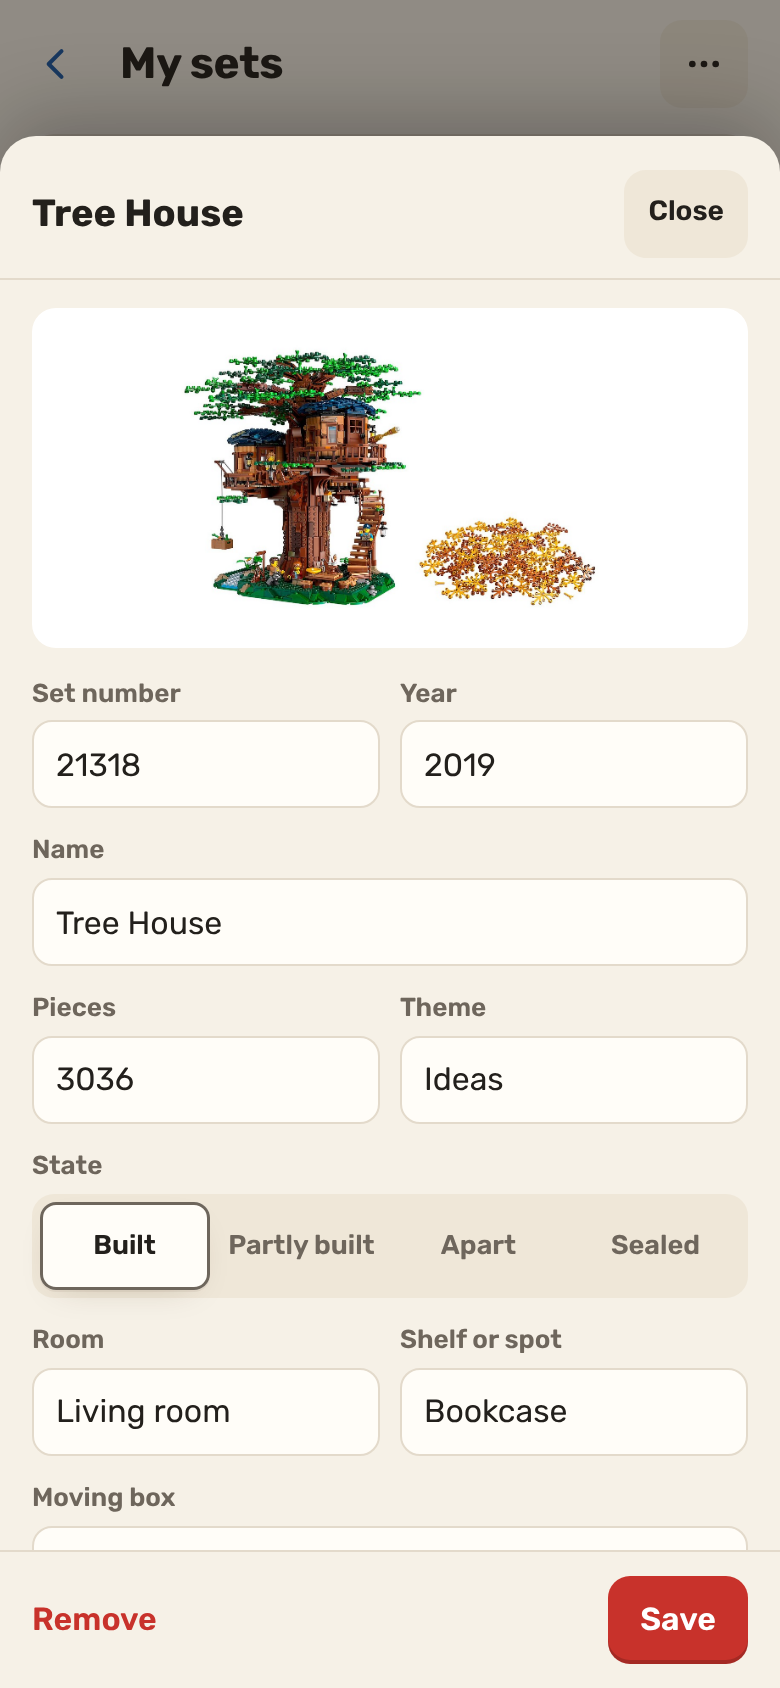
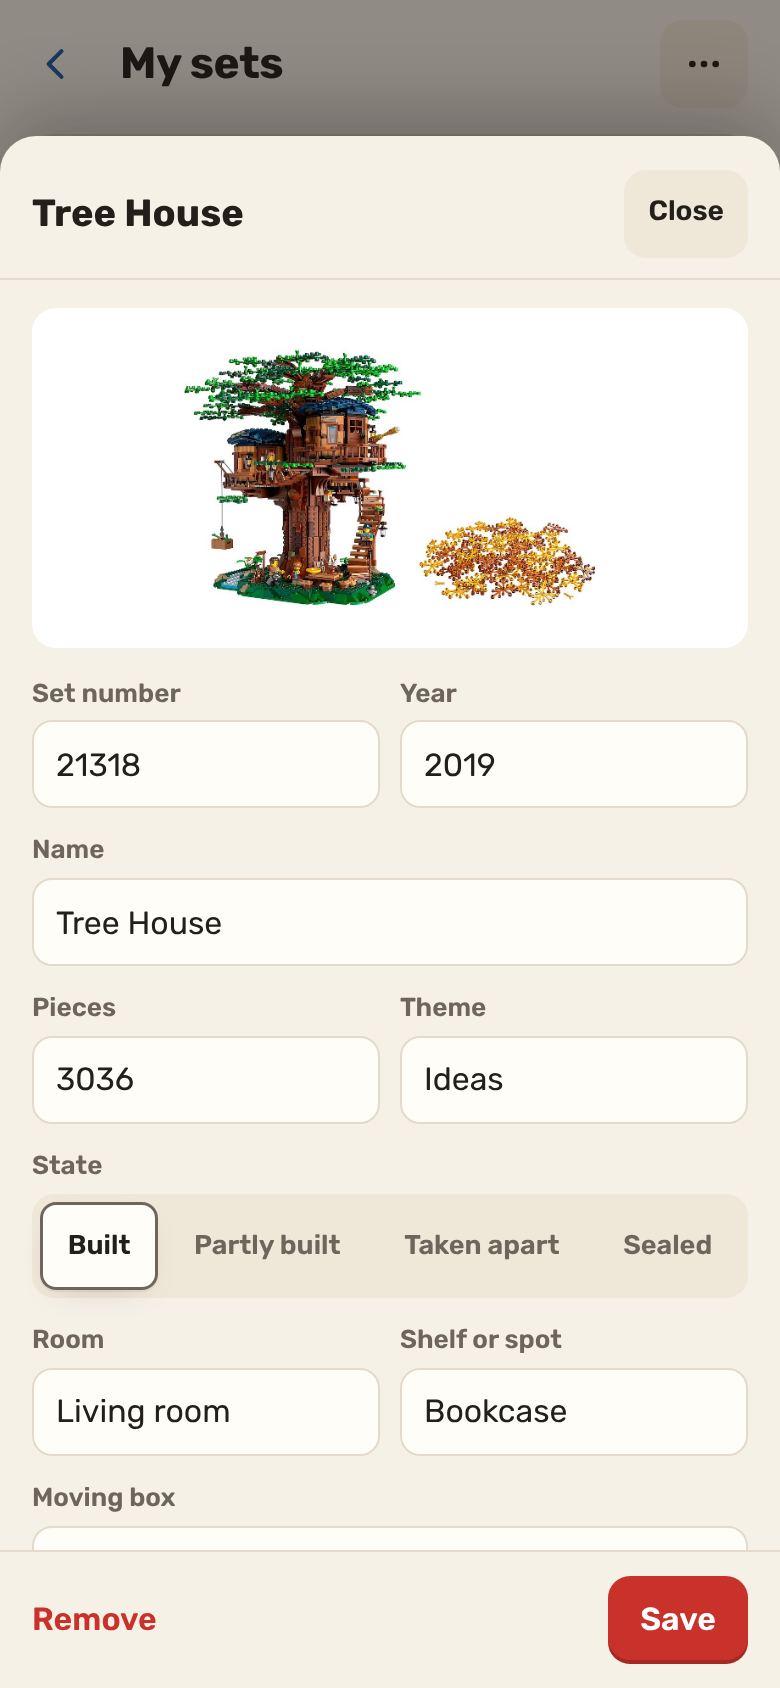
Use one word for each thing: Taken apart, loose pieces, Not now, Box 7
The same things went by different names from screen to screen. The
State control said "Apart" where the chips, the badges and the planner
say "Taken apart". Loose pieces were a "lot" in four places, the
code's word: "You can untick or remove a lot there" read as "remove
much". A review that came from a link was put off with "Not now" for
sets and loose pieces, "Cancel" for a whole catalog and "Close" for
sizes. A moving box was "Box 7" in headings and on rows, "box 7" under
them and in Build from your box. The 3D picture said "pinch to zoom"
on a laptop. And the empty My sets card said "Nothing here yet. Start
with your sets." on the card that is your sets.

Now: "Taken apart" in the State control, whose buttons are each as
wide as their words (all four on one line at 320 px, none under 44);
"these loose pieces", "remove them there", "Replace them", and a
catalog from a link counted as "1 set and 52 loose pieces"; "Not now"
on all four reviews; "Box 7" everywhere; "Drag to turn · scroll to
zoom" with a mouse; "No sets yet. Start here." The set sheet's picture
in docs/ is redrawn with the new words.

Claude-Session: https://claude.ai/code/session_01PQbLNUuiByHEfTthSk1RFs

diff --git a/js/app.js b/js/app.js
@@ -300,7 +300,7 @@
   }
   function renderHome() {
     var t = C.totals(C.live(DOC));
-    $('home-stat').textContent = t.sets ? plural(t.sets, 'set') + (t.pieces ? ' · ' + plural(t.pieces, 'piece') : '') : 'Nothing here yet. Start with your sets.';
+    $('home-stat').textContent = t.sets ? plural(t.sets, 'set') + (t.pieces ? ' · ' + plural(t.pieces, 'piece') : '') : 'No sets yet. Start here.';
     if (listed) buildStat(listed);
     else if (!asking) {
       asking = true;
@@ -503,7 +503,7 @@
   // The loose pieces packed in a box, as one muted line that goes to Build from your box, where they live.
   // "Also" when the box has sets in it too.
   function lotsLine(lots, label, also) {
-    return '<p class="note lots"><a href="#build">' + (also ? 'Also in box ' : 'In box ') + esc(label) + ': ' +
+    return '<p class="note lots"><a href="#build">' + (also ? 'Also in Box ' : 'In Box ') + esc(label) + ': ' +
       lots.map(function (l) { return esc(l.name) + ', ' + plural(C.lotTotals(l).pieces, 'loose piece'); }).join('; ') + '</a></p>';
   }
 
@@ -758,7 +758,7 @@
       '<p class="note hint" id="e-still" role="status" hidden></p>' +
       '<div class="two">' + field('Pieces', box('e-pieces', x.pieces || '', ' inputmode="numeric"')) + field('Theme', box('e-theme', x.theme, ' list="dl-theme" placeholder="e.g. Classic"')) + '</div>' +
       '<div class="field" role="group" aria-labelledby="e-state-l"><span class="lbl" id="e-state-l">State</span><div class="seg" id="e-state">' + C.STATES.map(function (k) {
-        return '<button type="button" data-v="' + k + '" aria-pressed="' + (x.state === k) + '">' + C.STATE_NAMES[k].replace('Taken apart', 'Apart') + '</button>';
+        return '<button type="button" data-v="' + k + '" aria-pressed="' + (x.state === k) + '">' + C.STATE_NAMES[k] + '</button>';
       }).join('') + '</div></div>' +
       '<div class="two">' + field('Room', box('e-room', x.room, ' list="dl-room" placeholder="e.g. Office"')) + field('Shelf or spot', box('e-spot', x.spot, ' list="dl-spot" placeholder="e.g. Top shelf"')) + '</div>' +
       field('Moving box', box('e-box', x.box, ' list="dl-box" placeholder="Leave blank if it’s not packed"')) +
@@ -1208,12 +1208,12 @@
     var had = DOC.loose[lot.id] && !DOC.loose[lot.id].del ? DOC.loose[lot.id] : null, n = C.lotTotals(lot);
     openSheet('<div class="hd"><h2 id="sheetTitle">Add loose pieces</h2><button class="btn sm quiet" type="button" data-close>Not now</button></div><div class="bd">' +
       '<p class="lede"><b>' + esc(lot.name) + '</b> · ' + plural(n.pieces, 'piece') + ' of ' + plural(n.kinds, 'kind') + '</p>' +
-      (had ? '<p class="flag"><span>You already have this lot (' + plural(C.lotTotals(had).pieces, 'piece') + '). Adding it again replaces it, so nothing is counted twice.</span></p>' : '') +
+      (had ? '<p class="flag"><span>You already have these loose pieces (' + plural(C.lotTotals(had).pieces, 'piece') + '). Adding them again replaces them, so nothing is counted twice.</span></p>' : '') +
       '<p class="note" id="ls-use"></p>' +
       '<div class="bulk">' + field('Call it', input('ls-name', lot.name, ' maxlength="80"')) +
       field('Moving box', input('ls-box', lot.box || (had && had.box) || '', ' list="dl-box" maxlength="40" placeholder="Leave blank if it’s not packed"')) + '</div>' +
-      '<p class="note">Loose pieces join <b>Your pieces</b> in Build from your box, next to your taken-apart sets. You can untick or remove a lot there.</p></div>' +
-      '<div class="ft"><span></span><button class="btn" type="button" id="ls-add">' + (had ? 'Replace it' : 'Add ' + plural(n.pieces, 'piece')) + '</button></div>');
+      '<p class="note">Loose pieces join <b>Your pieces</b> in Build from your box, next to your taken-apart sets. You can untick or remove them there.</p></div>' +
+      '<div class="ft"><span></span><button class="btn" type="button" id="ls-add">' + (had ? 'Replace them' : 'Add ' + plural(n.pieces, 'piece')) + '</button></div>');
     shapeIds().then(function (shapes) {
       var use = lot.parts.reduce(function (k, r) { return k + (shapes.knows(r[0]) ? r[2] : 0); }, 0);
       if ($('ls-use')) $('ls-use').textContent = use === n.pieces ? 'The builder can use all of them.'
@@ -1235,10 +1235,11 @@
   // removed. Those are counted, and a box offers to bring them back (timed now, so they win the merge everywhere).
   function catalogSheet(doc, from) {
     var link = from === 'link', incoming = C.live(doc).length, merged = C.mergeDocs(DOC, doc);
+    var loose = C.liveLots(doc).reduce(function (n, l) { return n + C.lotTotals(l).pieces; }, 0);
     var gone = C.live(doc).filter(function (x) { return DOC.sets[x.id] && DOC.sets[x.id].del && merged.sets[x.id].del; });
     var names = gone.slice(0, 3).map(function (x) { return x.name || 'Set ' + C.shortNum(x.num); }).join(', ') + (gone.length > 3 ? ' and ' + (gone.length - 3) + ' more' : '');
-    openSheet('<div class="hd"><h2 id="sheetTitle">' + (link ? 'Your catalog from a link' : 'Open a Brickyard file') + '</h2><button class="btn sm quiet" type="button" data-close>Cancel</button></div><div class="bd">' +
-      '<p class="lede">This ' + (link ? 'link' : 'file') + ' has ' + plural(incoming, 'set') + (C.liveLots(doc).length ? ' and ' + plural(C.liveLots(doc).length, 'lot') + ' of loose pieces' : '') +
+    openSheet('<div class="hd"><h2 id="sheetTitle">' + (link ? 'Your catalog from a link' : 'Open a Brickyard file') + '</h2><button class="btn sm quiet" type="button" data-close>Not now</button></div><div class="bd">' +
+      '<p class="lede">This ' + (link ? 'link' : 'file') + ' has ' + plural(incoming, 'set') + (loose ? ' and ' + plural(loose, 'loose piece') : '') +
       '. Bringing it in merges it with what’s here, set by set: whichever was changed last is kept, and removing a set counts as a change. Sets that are only here stay.</p>' +
       (gone.length ? '<label class="check"><input type="checkbox" id="cs-back"><span>Bring back the ' + (gone.length === 1 ? 'set' : gone.length.toLocaleString() + ' sets') + ' removed here since this ' + (link ? 'link was copied' : 'file was saved') +
         '<span class="note" style="display:block;margin:2px 0 0">' + esc(names) + '</span></span></label>' : '') + '</div>' +

diff --git a/js/build.js b/js/build.js
@@ -189,7 +189,7 @@ const renderList = orSay(async () => {
     html += '<ul class="menu pool">' + sets.map(s => '<li><label><input type="checkbox" data-pool="' + esc(s.id) + '"' + (s.on ? ' checked' : '') + '>' +
       '<span>' + esc(s.name) + '<small>' + esc(s.num.replace(/-1$/, '')) + ' · ' + plural(s.pieces, 'piece') + (!s.on && OFF[s.state] ? ' · ' + OFF[s.state] : '') + '</small></span></label></li>').join('') +
       lots.map(l => '<li class="lot"><label><input type="checkbox" data-pool="' + esc(l.id) + '"' + (l.on ? ' checked' : '') + '>' +
-        '<span>' + esc(l.name) + '<small>Loose · ' + plural(l.pieces, 'piece') + (l.box ? ' · box ' + esc(window.BrickCore.boxName(l.box)) : '') +
+        '<span>' + esc(l.name) + '<small>Loose · ' + plural(l.pieces, 'piece') + (l.box ? ' · Box ' + esc(window.BrickCore.boxName(l.box)) : '') +
         (l.usable < l.pieces ? ' · the builder can use ' + l.usable.toLocaleString() : '') + '</small></span></label>' +
         '<button class="btn sm quiet" type="button" data-lot="' + esc(l.id) + '" aria-label="Remove ' + esc(l.name) + '">Remove</button></li>').join('') + '</ul>';
     if (!any) html += '<p class="flag"><span>' + (!lots.length ? 'Tick a set to build from its pieces.' : sets.length ? 'Tick a set or some loose pieces to build from them.' : 'Tick your loose pieces to build from them.') + '</span></p>';
@@ -237,7 +237,7 @@ document.addEventListener('brickyard:changed', () => { if (!$('build').hidden &&
 function dropLot(l) {
   if (!l) return;
   app.openSheet('<div class="hd"><h2 id="sheetTitle">Remove these loose pieces?</h2><button class="btn sm quiet" type="button" data-close>Keep them</button></div>' +
-    '<div class="bd"><p class="lede"><b>' + esc(l.name) + '</b> · ' + plural(l.pieces, 'piece') + '</p><p class="note">They leave Your pieces. Your sets aren’t touched, and opening the lot’s link or file again brings it back.</p></div>' +
+    '<div class="bd"><p class="lede"><b>' + esc(l.name) + '</b> · ' + plural(l.pieces, 'piece') + '</p><p class="note">They leave Your pieces. Your sets aren’t touched, and opening their link or file again brings them back.</p></div>' +
     '<div class="ft"><span></span><button class="btn" type="button" id="lot-drop">Remove</button></div>');
   $('lot-drop').onclick = () => {
     const kept = app.doc().loose[l.id], ids = poolLots().map(x => x.id), at = ids.indexOf(l.id);
@@ -534,6 +534,8 @@ function startStage() {
   if (!hintTimer && !$('stage-hint').hidden) hintTimer = setTimeout(hideHint, 4000);
 }
 let dropped = null, hintTimer = 0; // the hint as it was before "The picture was dropped" took its place
+// The hint is written for a finger ("pinch to zoom", index.html). With a mouse or a trackpad it's the wheel that zooms.
+if (window.matchMedia && matchMedia('(hover: hover) and (pointer: fine)').matches) $('stage-hint').textContent = 'Drag to turn · scroll to zoom';
 function hideHint(now) {
   const h = $('stage-hint');
   if (dropped) dropped.hidden = true;

diff --git a/css/app.css b/css/app.css
@@ -225,6 +225,10 @@ a.item { color: inherit; text-decoration: none; }
 .three { display: grid; grid-template-columns: 1fr 1fr 1fr; gap: 10px; }
 .seg { display: grid; grid-template-columns: repeat(4, 1fr); gap: 4px; background: var(--soft); border-radius: 11px; padding: 4px; }
 .seg button { border: 0; background: none; border-radius: 8px; padding: 8px 2px; min-height: 44px; font-size: 13.5px; font-weight: 600; cursor: pointer; color: var(--muted); }
+/* A set's State: each button is as wide as its words, and they share what's left of the row. In four equal parts
+   "Taken apart" reached the edges of its button on a phone, and on a small one the two long names took two lines.
+   (At 200% zoom the row is two rows of two, below.) */
+@media (min-width: 301px) { #e-state { display: flex; } #e-state button { flex: 1 1 auto; min-width: 44px; } }
 /* In dark mode the card colour is darker than the track, so the chosen button looked pressed in and was hard to pick
    out: there it's lighter than the track instead (--seg-on). */
 .seg button[aria-pressed="true"] { background: var(--seg-on); color: var(--ink); box-shadow: var(--shadow), inset 0 0 0 1.5px var(--muted); }

diff --git a/js/shelves.js b/js/shelves.js
@@ -741,7 +741,7 @@
         ' in My sets. Sizes only fill in sets you’ve already added.', false, { label: 'My sets', run: function () { location.hash = '#catalog'; } });
       return;
     }
-    app.openSheet('<div class="hd"><h2 id="sheetTitle">Add sizes</h2><button class="btn sm quiet" type="button" data-close>Close</button></div><div class="bd">' +
+    app.openSheet('<div class="hd"><h2 id="sheetTitle">Add sizes</h2><button class="btn sm quiet" type="button" data-close>Not now</button></div><div class="bd">' +
       '<p class="note">Sizes Claude found for your sets. Sets that already have a size are unticked; tick one to replace it.' +
         (doubts ? ' ' + (doubts === 1 ? 'One size looks wrong and is' : doubts.toLocaleString() + ' sizes look wrong and are') + ' unticked too: check ' + (doubts === 1 ? 'it' : 'them') + ' before you tick.' : '') +
         (dropped ? ' ' + (dropped === 1 ? 'One size in the list' : dropped.toLocaleString() + ' sizes in the list') + ' couldn’t be read.' : '') +

diff --git a/sw.js b/sw.js
@@ -8,7 +8,7 @@
 // fingerprint of every file in SHELL: change any of them and test/e2e.mjs fails until FILES is changed to match (it
 // says what to), which changes this file, so every copy is made whole again at once.
 const CACHE = 'brickyard-v6'; // bump the number when the file list changes
-const FILES = '20ecc2fe'; // test/e2e.mjs checks this
+const FILES = '45e07e5d'; // test/e2e.mjs checks this
 const SHELL = [
   './', 'index.html', 'css/app.css', 'js/core.js', 'js/shelf-core.js', 'js/app.js', 'js/shelves.js', 'js/sync.js', 'js/build-core.js', 'js/build.js',
   'js/vendor/three.module.js', 'js/vendor/three.core.js', 'js/vendor/OrbitControls.js',
